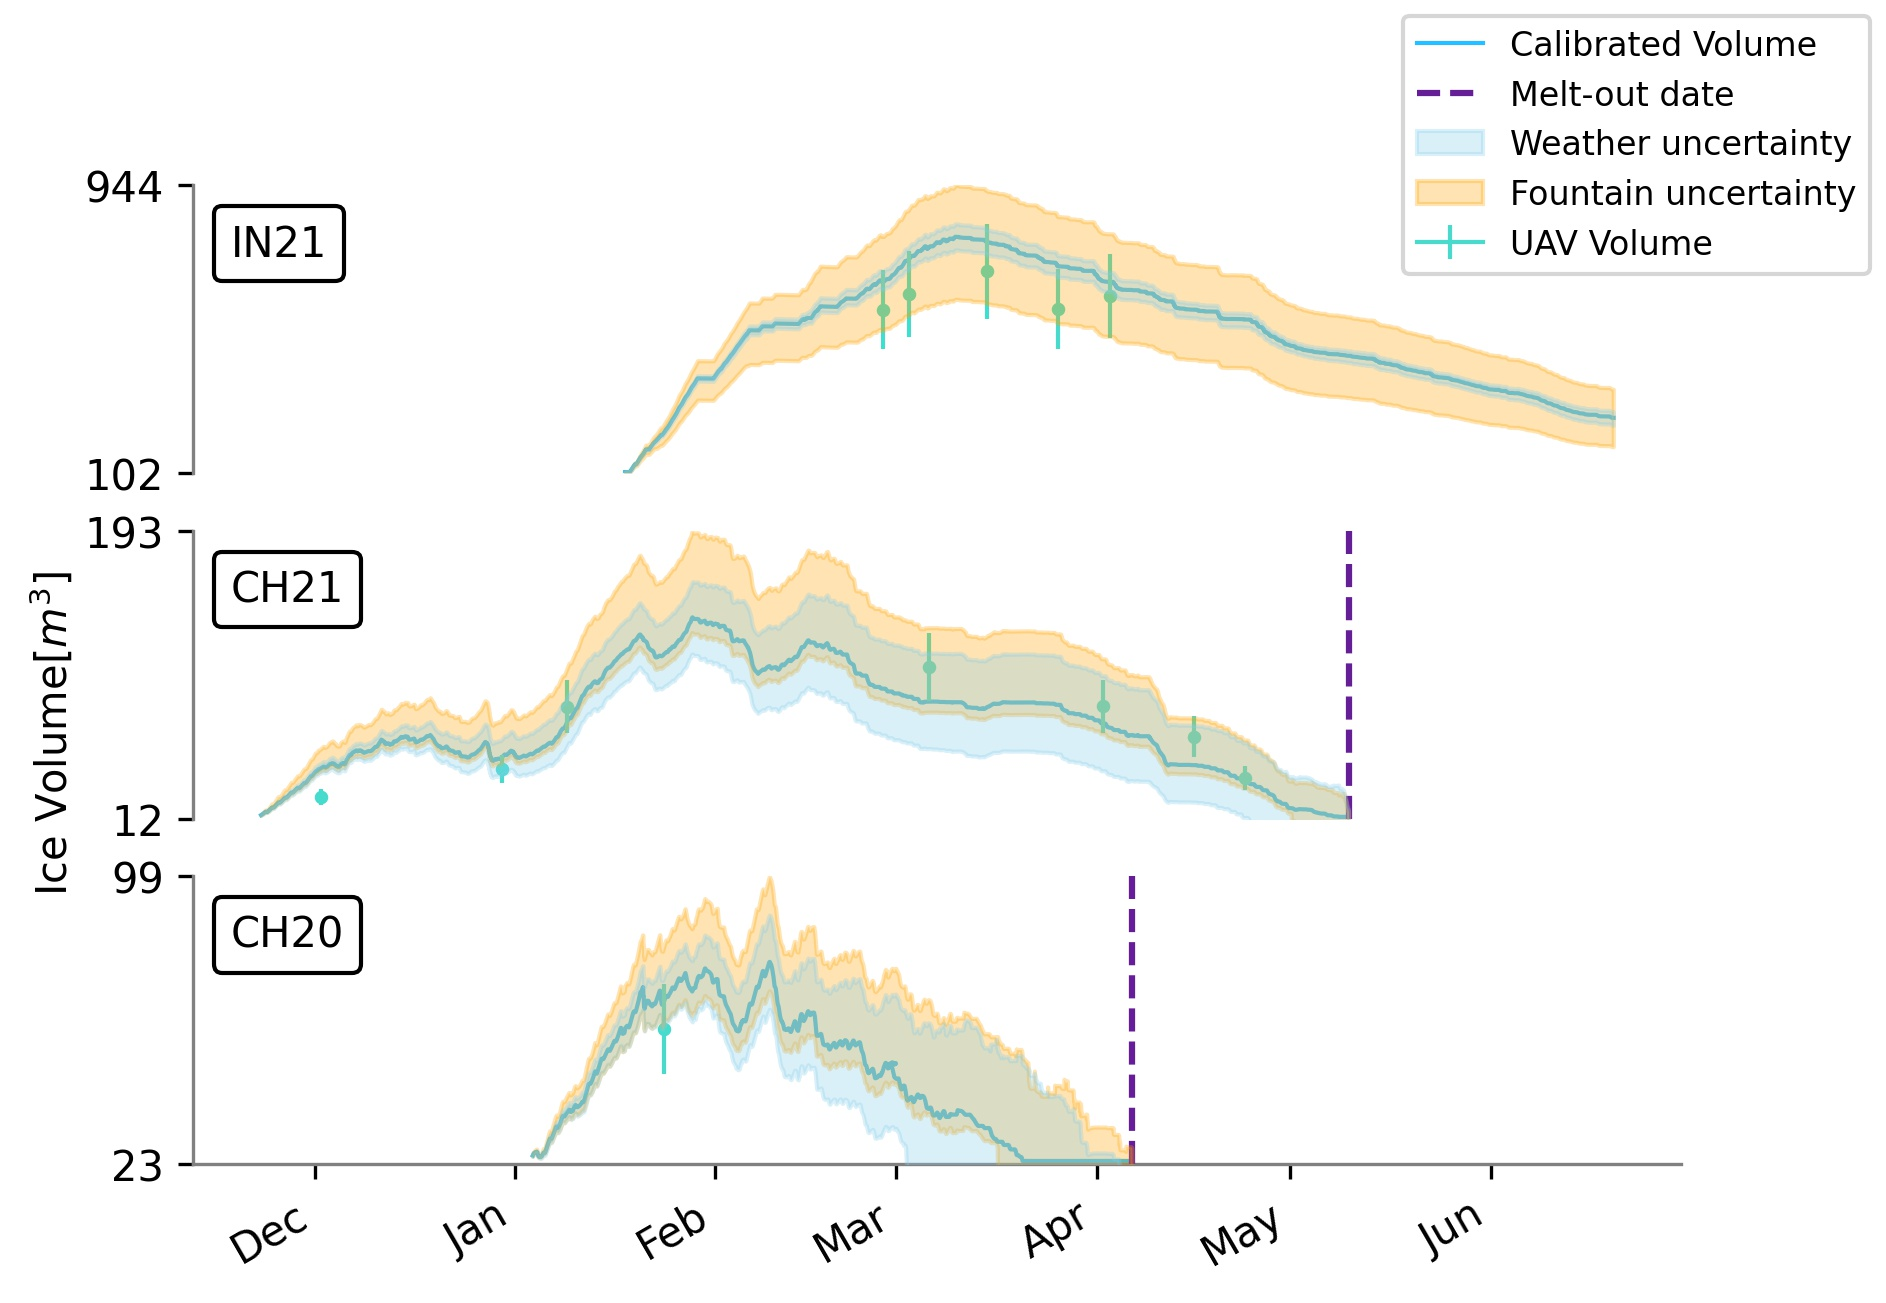
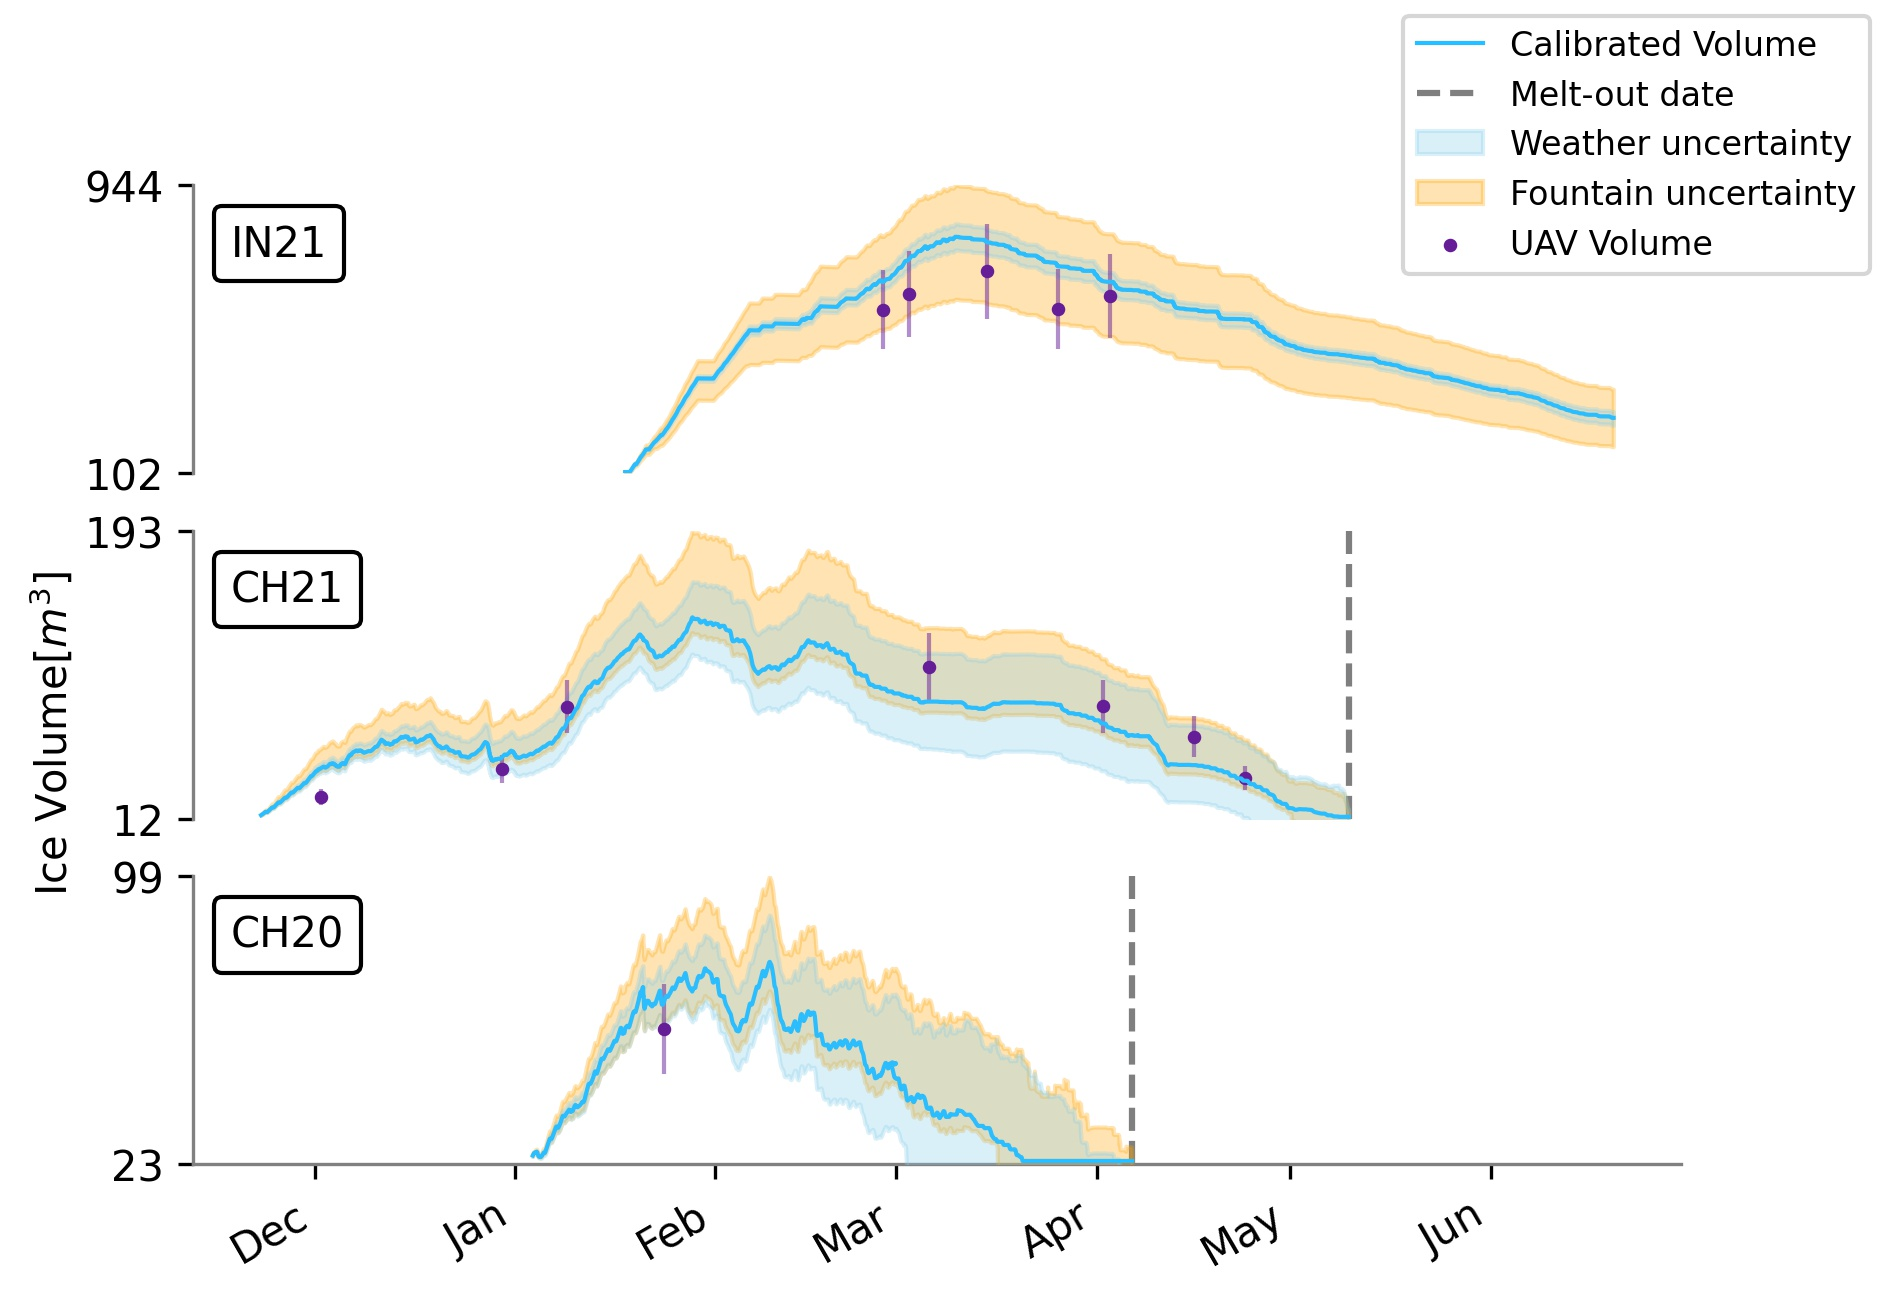
paper fig update

diff --git a/src/utils/uq_plot_full.py b/src/utils/uq_plot_full.py
@@ -144,13 +144,16 @@ if __name__ == "__main__":
             label="Calibrated Volume",
             linewidth=1,
             color=CB91_Blue,
-            zorder=1,
+            # color=CB91_Green,
+            zorder=10,
         )
         ax[i].fill_between(
             data1["When"],
             data1.percentile_5,
             data1.percentile_95,
             color="skyblue",
+            # color=CB91_Green,
+            # color=CB91_Blue,
             alpha=0.3,
             label="Weather uncertainty",
             zorder = 6,
@@ -164,11 +167,11 @@ if __name__ == "__main__":
             label="Fountain uncertainty",
             zorder = 5,
         )
-        ax[i].errorbar(x2, y2, yerr=df_c.DroneVError, color=CB91_Green, lw=1,  label="UAV Volume", zorder=3)
-        ax[i].scatter(x2, y2, s = 5, color=CB91_Green, zorder=2)
+        ax[i].errorbar(x2, y2, yerr=df_c.DroneVError, color=CB91_Violet, lw=1, alpha = 0.5, zorder=8)
+        ax[i].scatter(x2, y2, s = 5, color=CB91_Violet, zorder=7,  label="UAV Volume")
         # ax[i].scatter(SITE['end_date'], round(icestupa.V_dome,0) + 1,  color=CB91_Amber,marker = "x", zorder=2)
         if location != 'gangles21':
-            ax[i].axvline(SITE['melt_out'],  color=CB91_Violet,linestyle = '--', zorder=4, label="Melt-out date",)
+            ax[i].axvline(SITE['melt_out'],  color='black', alpha=0.5, linestyle = '--', zorder=2, label="Melt-out date",)
         ax[i].set_ylim(round(icestupa.V_dome,0) - 1, round(data2.percentile_95.max(),0))
         v = get_parameter_metadata(location)
         at = AnchoredText( v['shortname'], prop=dict(size=10), frameon=True, loc="upper left")
